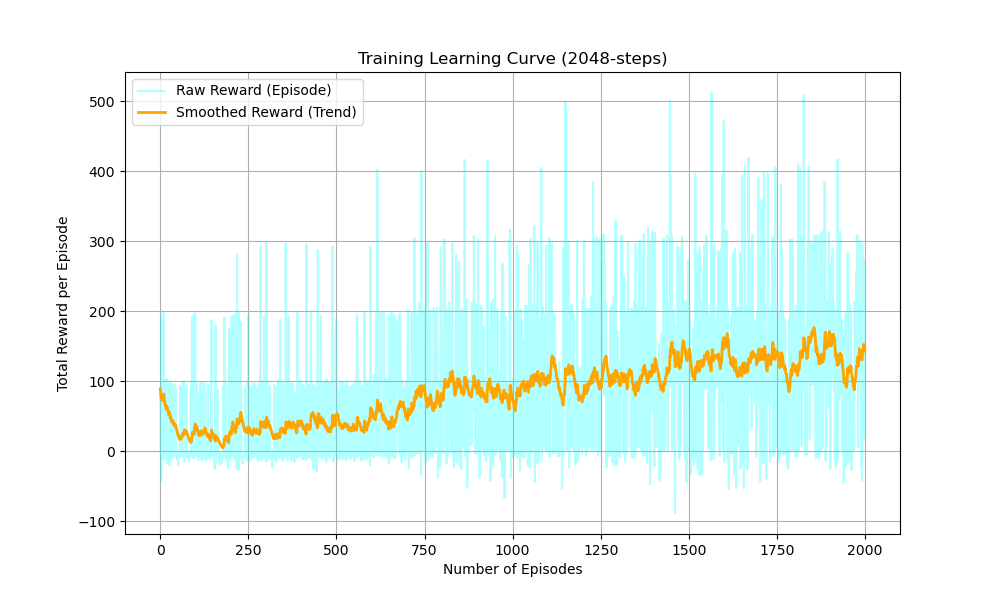
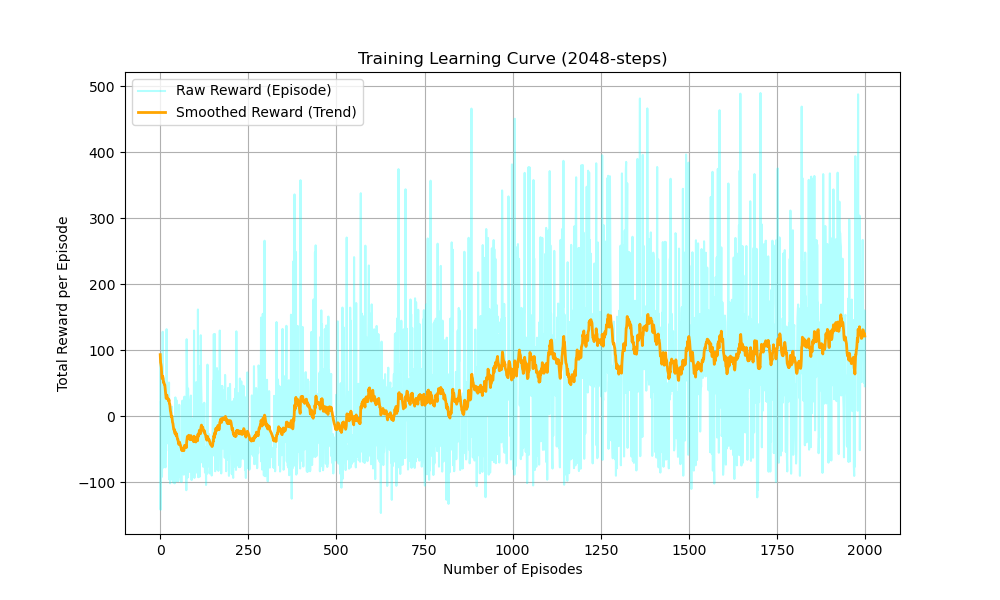
update new reward

diff --git a/reward_wrapper.py b/reward_wrapper.py
@@ -5,6 +5,11 @@ class RewardWrapper(gym.Wrapper):
     
     def __init__ (self, env):
         super().__init__(env)
+        self.current_zone = 3 
+
+    def reset(self, **kwargs):
+        self.current_zone = 3
+        return self.env.reset(**kwargs)
 
     def step(self, action):
         obs, terminated, truncated, info = self.env.step(action)
@@ -16,24 +21,25 @@ class RewardWrapper(gym.Wrapper):
         step_info = info.get('step_info', {})
         
         # 1. HARD EVENTS
-        # Miễn phí khai hỏa (0.0) để dụ bắn
         if step_info.get('shot_fired', False):
             reward -= 0.0 
             
-        # Phạt trượt nhẹ (-2.0)
-        if step_info.get('arrows_went_out', 0) > 0:
-            reward -= 2.0 * step_info['arrows_went_out']
-            
-        # 2. XỬ LÝ HIT (Quan trọng: Cần Env trả về hit_priority_target)
         if step_info.get('hit_priority_target', False):
-            # Bắn trúng ĐÚNG priority target -> Thưởng lớn
             reward += 100.0
-        
-        # 3. LINEAR SHAPING REWARD (Công thức tuyến tính của bạn)
+            self.current_zone = 3
+            
+        # phạt trượt
+        if step_info.get('arrows_went_out', 0) > 0:
+            reward -= 5.0 * step_info['arrows_went_out']
+            self.current_zone = 3
+            
+        # 2. shaping reward
         active_arrows = obs.get('arrows', [])
         active_targets = obs.get('targets', [])
 
-        # Tính điểm dựa trên khoảng cách (cho các frame mũi tên đang bay)
+        if not active_arrows:
+            self.current_zone = 3
+
         if active_arrows and active_targets:
             priority_target = active_targets[0] 
             t_pos = np.array([priority_target['pos']['x'], priority_target['pos']['y']])
@@ -45,16 +51,29 @@ class RewardWrapper(gym.Wrapper):
                 if dist < min_dist:
                     min_dist = dist
             
-            # --- CÔNG THỨC TUYẾN TÍNH (1/x) ---
-            # K = 200, C = 2.0
-            dist_reward = 200.0 / (min_dist + 2.0) 
             
-            # Nhân với 0.05 để mỗi frame nhận một chút
-            reward += dist_reward * 0.05
+            # Mốc 1 (< 150px):
+            if min_dist < 150 and self.current_zone > 2:
+                reward += 1.0
+                self.current_zone = 2
 
-        # 4. IDLE PENALTY
-        # Phạt nhẹ để ép hành động
+            # Mốc 2 (< 100px):
+            if min_dist < 100 and self.current_zone > 1:
+                reward += 1.0
+                self.current_zone = 1
+
+            # Mốc 3 (< 50px):
+            if min_dist < 50 and self.current_zone > 0:
+                reward += 2.0
+                self.current_zone = 0
+
+        # 3. phạt không làm gì
         if len(active_arrows) == 0 and not step_info.get('shot_fired', False):
             reward -= 0.1
+            
+        # 4. phạt giữ đạn
+        arrows_left = step_info.get('arrows_left', 0)
+        if arrows_left > 0:
+            reward -= 0.01 * arrows_left
 
         return reward

diff --git a/params.py b/params.py
@@ -8,7 +8,7 @@ class Params:
         self.hidden_dim = 256   # Số neuron lớp ẩn
         self.output_dim = 3     # Action: mean(angle), mean(power)
         
-        self.lr = 3e-4             # Tốc độ học 
+        self.lr = 5e-4             # Tốc độ học 
         self.gamma = 0.99          # Discount factor (trọng số tương lai)
         self.beta = 0.001          # hệ số entropy
         self.eps_clip = 0.2        # PPO cần thêm cái này (tỉ lệ cắt)
